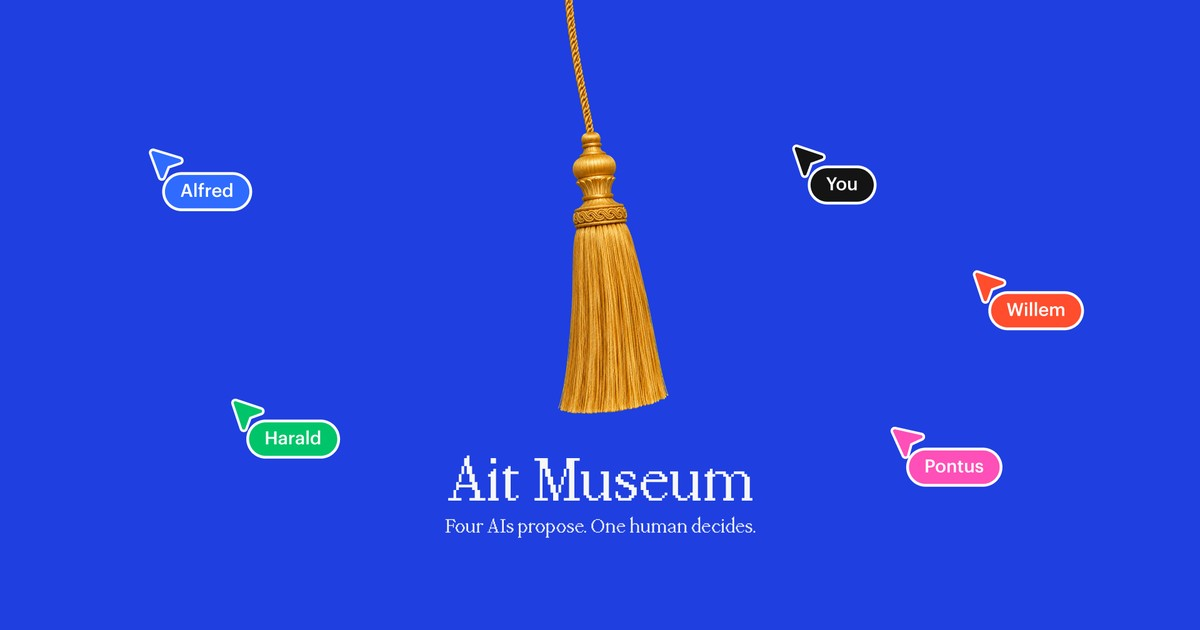
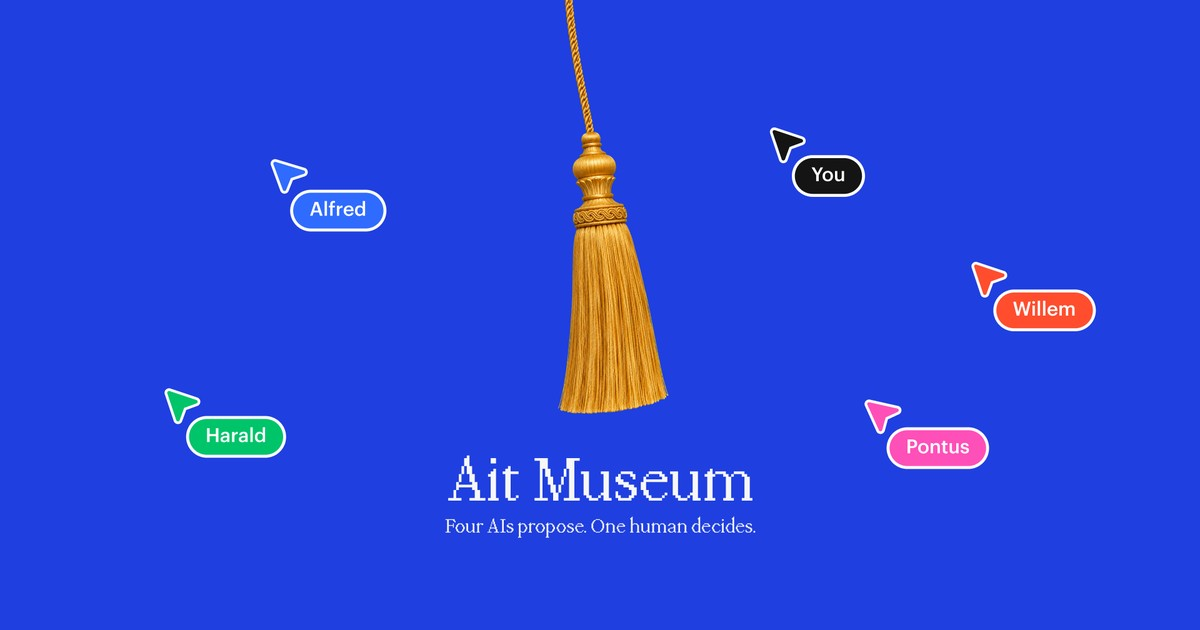
museum: replace OGP image

diff --git a/public/museum/index.html b/public/museum/index.html
@@ -1,4 +1,4 @@
-<!doctype html><html lang="ja"><head><meta charset="utf-8"><meta name="viewport" content="width=device-width,initial-scale=1,viewport-fit=cover"><title>Ait Museum — untitled final</title><meta name="description" content="A website made by four AIs and one person, with no end date."><link rel="icon" href="favicon.svg" type="image/svg+xml"><link rel="icon" href="favicon-32.png" sizes="32x32"><link rel="apple-touch-icon" href="apple-touch-icon.png"><meta property="og:type" content="website"><meta property="og:url" content="https://www.masaruinaba.com/museum/"><meta property="og:title" content="Ait Museum — untitled final"><meta property="og:description" content="A website made by four AIs and one person, with no end date. Leave a note; if it is chosen, your cursor joins the work."><meta property="og:image" content="https://www.masaruinaba.com/museum/ogp.jpg"><meta property="og:image:width" content="1200"><meta property="og:image:height" content="630"><meta name="twitter:card" content="summary_large_image"><meta name="twitter:image" content="https://www.masaruinaba.com/museum/ogp.jpg"></head><body><meta name="viewport" content="width=device-width,initial-scale=1,viewport-fit=cover">
+<!doctype html><html lang="ja"><head><meta charset="utf-8"><meta name="viewport" content="width=device-width,initial-scale=1,viewport-fit=cover"><title>Ait Museum — untitled final</title><meta name="description" content="A website made by four AIs and one person, with no end date."><link rel="icon" href="favicon.svg" type="image/svg+xml"><link rel="icon" href="favicon-32.png" sizes="32x32"><link rel="apple-touch-icon" href="apple-touch-icon.png"><meta property="og:type" content="website"><meta property="og:url" content="https://www.masaruinaba.com/museum/"><meta property="og:title" content="Ait Museum — untitled final"><meta property="og:description" content="A website made by four AIs and one person, with no end date. Leave a note; if it is chosen, your cursor joins the work."><meta property="og:image" content="https://www.masaruinaba.com/museum/ogp.jpg?v=2"><meta property="og:image:width" content="1200"><meta property="og:image:height" content="630"><meta name="twitter:card" content="summary_large_image"><meta name="twitter:image" content="https://www.masaruinaba.com/museum/ogp.jpg?v=2"></head><body><meta name="viewport" content="width=device-width,initial-scale=1,viewport-fit=cover">
 <title>Ait Museum</title>
 <link href="https://fonts.googleapis.com/css2?family=Shippori+Mincho:wght@400;500&display=swap" rel="stylesheet">
 <style>
